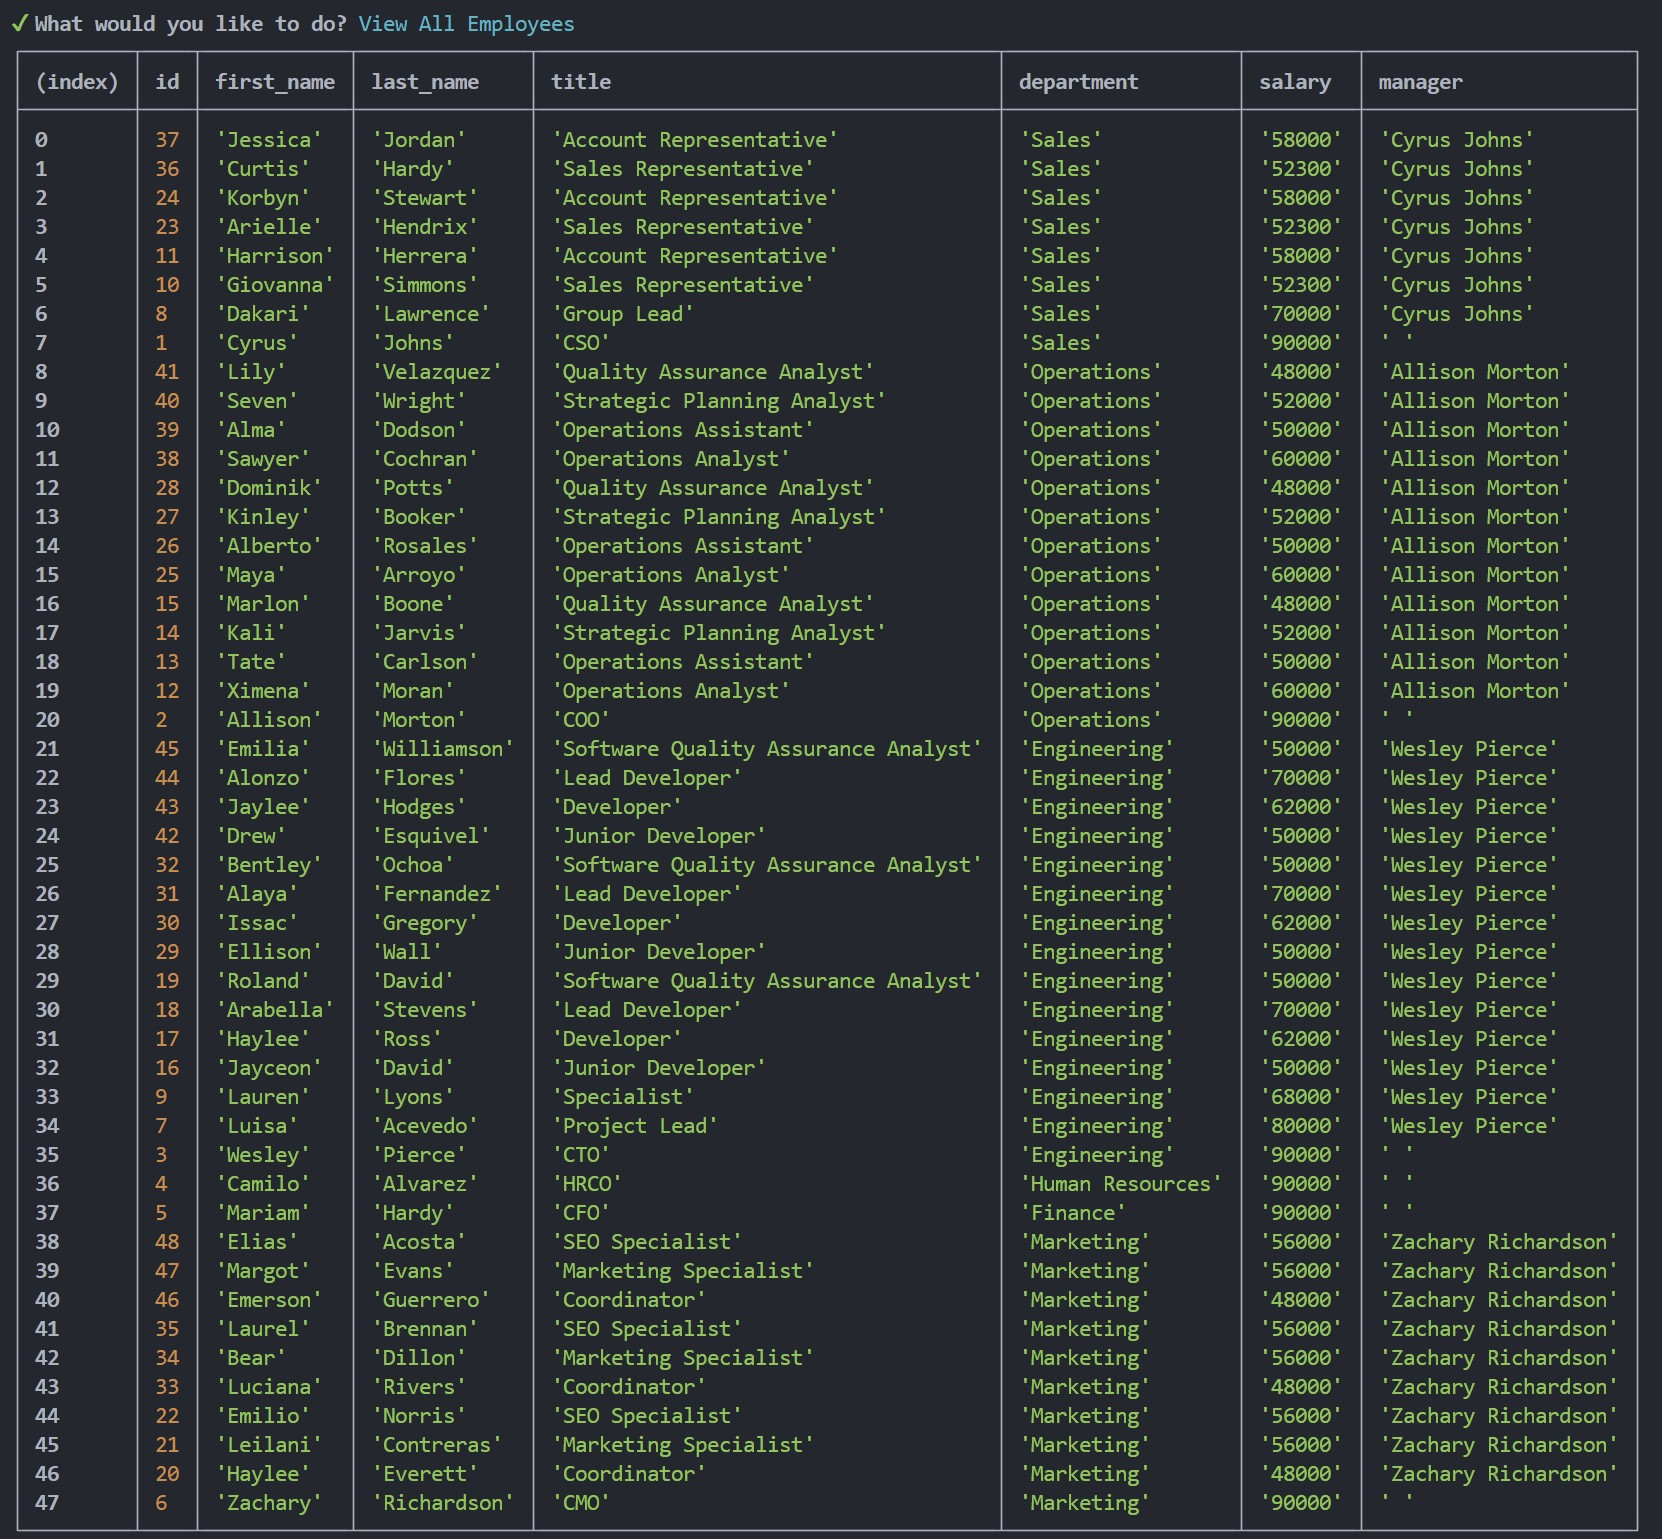
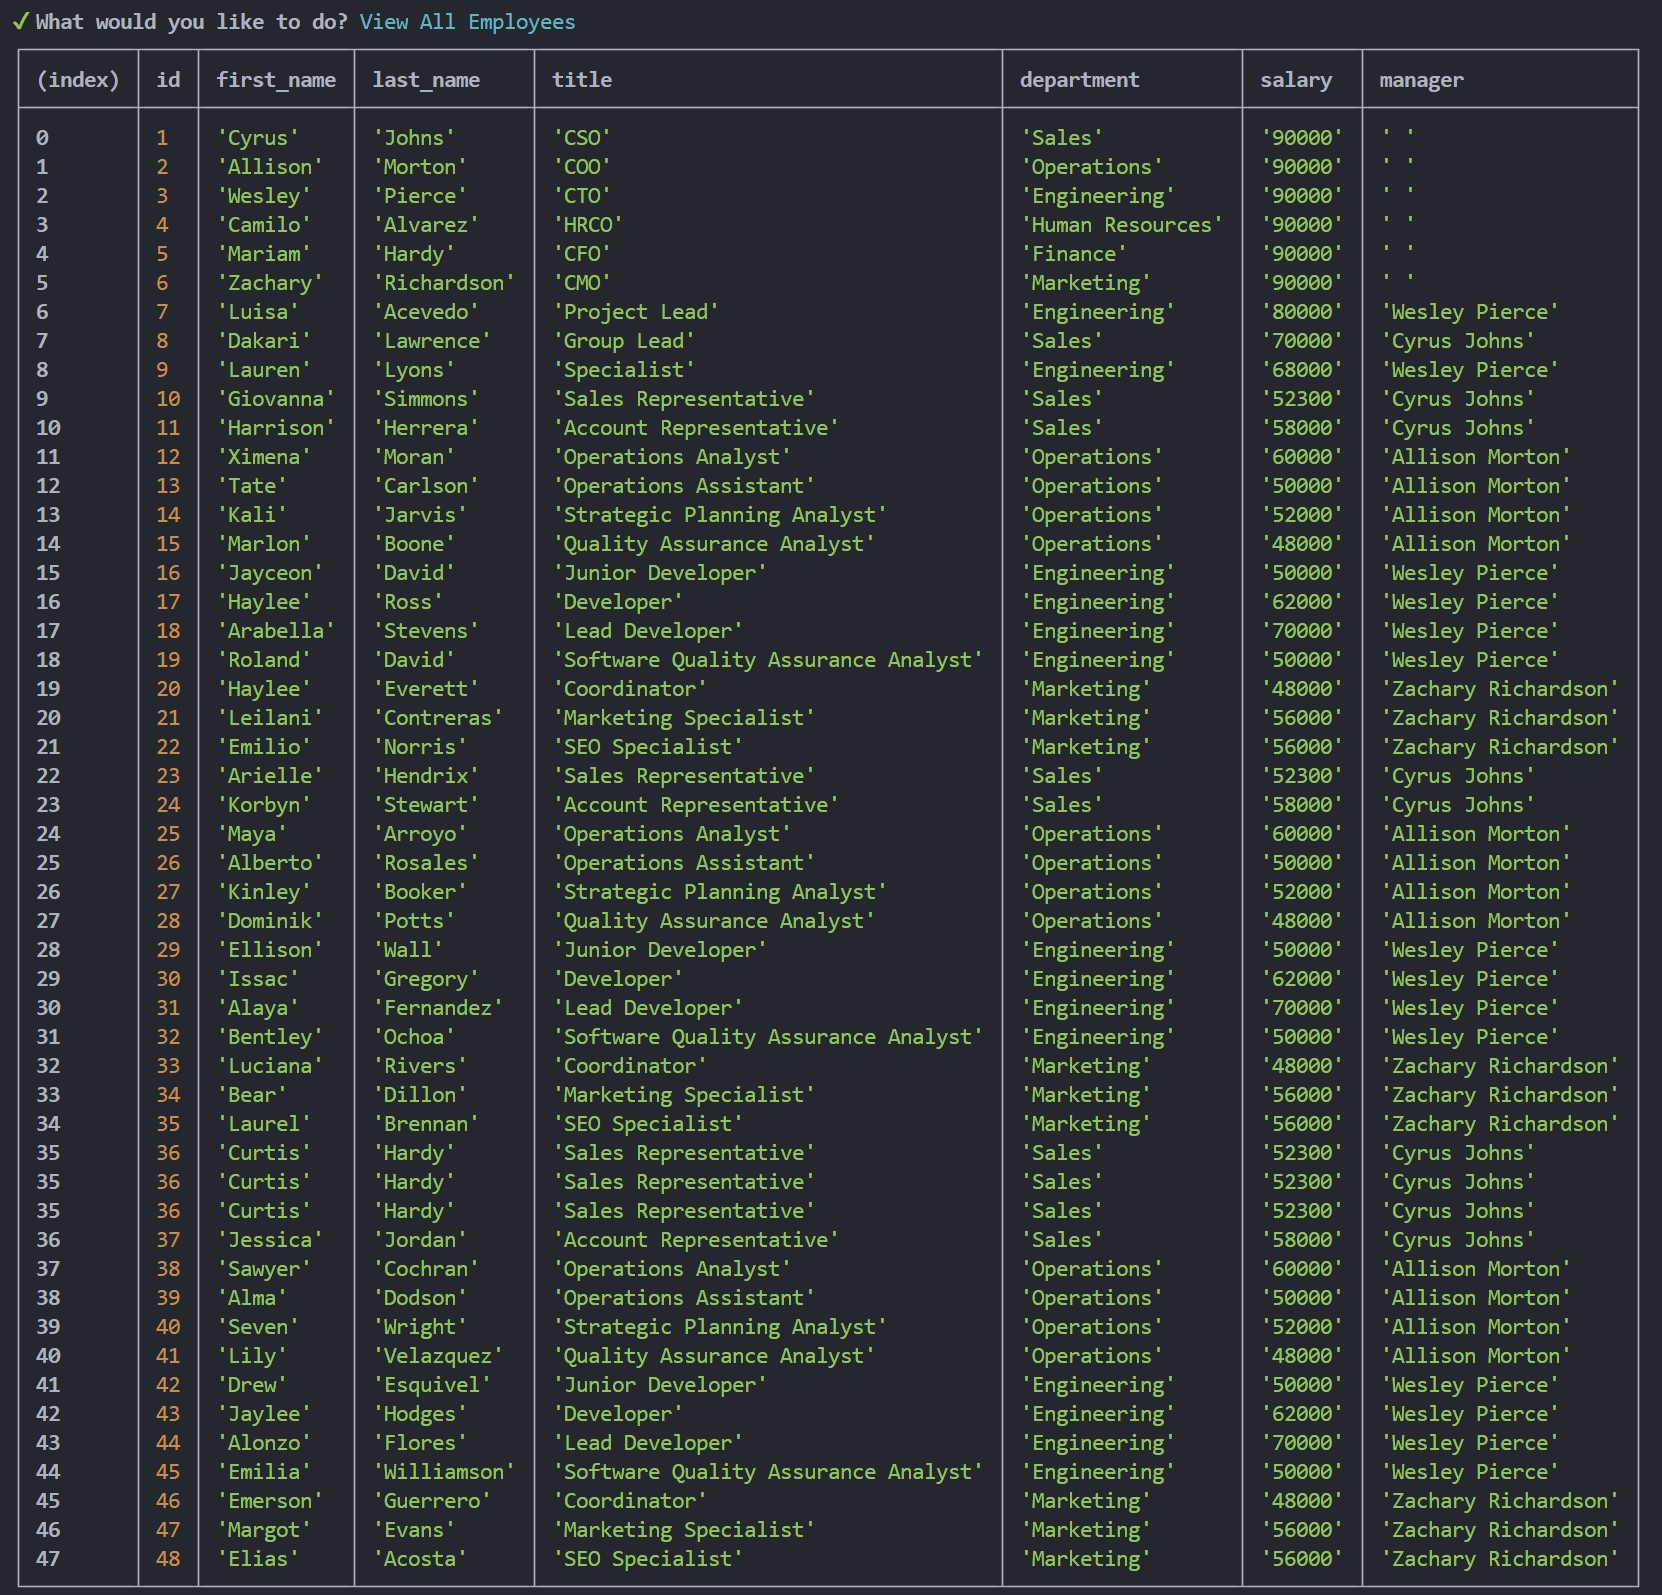
Updated index.ts - viewAllEmployees query to sort results by employee.id ASC, updated assets folder screenshot of viewAllEmployees to show ordering. Added dist folder with compiled JS code.

Changed region(s): [[0.0, 0.0, 1.0, 0.9981], [0.5523, 0.5614, 0.583, 0.5926]]

diff --git a/dist/index.js b/dist/index.js
@@ -1,0 +1,155 @@
+"use strict";
+var __importDefault = (this && this.__importDefault) || function (mod) {
+    return (mod && mod.__esModule) ? mod : { "default": mod };
+};
+Object.defineProperty(exports, "__esModule", { value: true });
+const inquirer_1 = __importDefault(require("inquirer"));
+const connection_1 = require("./connection");
+// Main menu function to display options to the user
+const mainMenu = () => {
+    const questions = [
+        {
+            type: 'list',
+            name: 'action',
+            message: 'What would you like to do?',
+            choices: [
+                'View All Departments',
+                'View All Roles',
+                'View All Employees',
+                'Add Department',
+                'Add Role',
+                'Add Employee',
+                'Update Employee Role',
+                'Exit'
+            ]
+        }
+    ];
+    // Prompt the user with the main menu options
+    inquirer_1.default.prompt(questions).then(answer => {
+        switch (answer.action) {
+            case 'View All Departments':
+                viewAllDepartments();
+                break;
+            case 'View All Roles':
+                viewAllRoles();
+                break;
+            case 'View All Employees':
+                viewAllEmployees();
+                break;
+            case 'Add Department':
+                addDepartment();
+                break;
+            case 'Add Role':
+                addRole();
+                break;
+            case 'Add Employee':
+                addEmployee();
+                break;
+            case 'Update Employee Role':
+                updateEmployeeRole();
+                break;
+            case 'Exit':
+                connection_1.pool.end();
+                process.exit();
+        }
+    });
+};
+// Function to view all departments
+const viewAllDepartments = () => {
+    connection_1.pool.query('SELECT id, "name" FROM department', (err, res) => {
+        if (err)
+            throw err;
+        console.table(res.rows);
+        mainMenu();
+    });
+};
+// Function to view all roles
+const viewAllRoles = () => {
+    connection_1.pool.query('SELECT role.id, role.title, role.salary, department.name AS department FROM role JOIN department ON role.department_id = department.id', (err, res) => {
+        if (err)
+            throw err;
+        console.table(res.rows);
+        mainMenu();
+    });
+};
+// Function to view all employees
+const viewAllEmployees = () => {
+    connection_1.pool.query(`
+    SELECT employee.id, employee.first_name, employee.last_name, role.title, department.name AS department, role.salary, 
+    CONCAT(manager.first_name, ' ', manager.last_name) AS manager 
+    FROM employee 
+    JOIN role ON employee.role_id = role.id 
+    JOIN department ON role.department_id = department.id 
+    LEFT JOIN employee AS manager ON employee.manager_id = manager.id
+    ORDER BY employee.id ASC
+  `, (err, res) => {
+        if (err)
+            throw err;
+        console.table(res.rows);
+        mainMenu();
+    });
+};
+// Function to add a new department
+const addDepartment = () => {
+    const questions = [
+        { type: 'input', name: 'name', message: 'Department Name:' }
+    ];
+    inquirer_1.default.prompt(questions).then(answer => {
+        connection_1.pool.query('INSERT INTO department (name) VALUES ($1)', [answer.name], (err, res) => {
+            if (err)
+                throw err;
+            console.log('Department added successfully');
+            mainMenu();
+        });
+    });
+};
+// Function to add a new role
+const addRole = () => {
+    const questions = [
+        { type: 'input', name: 'title', message: 'Role Title:' },
+        { type: 'input', name: 'salary', message: 'Role Salary:' },
+        { type: 'input', name: 'department_id', message: 'Department ID:' }
+    ];
+    inquirer_1.default.prompt(questions).then(answers => {
+        connection_1.pool.query('INSERT INTO role (title, salary, department_id) VALUES ($1, $2, $3)', [answers.title, answers.salary, answers.department_id], (err, res) => {
+            if (err)
+                throw err;
+            console.log('Role added successfully');
+            mainMenu();
+        });
+    });
+};
+// Function to add a new employee
+const addEmployee = () => {
+    const questions = [
+        { type: 'input', name: 'first_name', message: 'First Name:' },
+        { type: 'input', name: 'last_name', message: 'Last Name:' },
+        { type: 'input', name: 'role_id', message: 'Role ID:' },
+        { type: 'input', name: 'manager_id', message: 'Manager ID:' }
+    ];
+    inquirer_1.default.prompt(questions).then(answers => {
+        connection_1.pool.query('INSERT INTO employee (first_name, last_name, role_id, manager_id) VALUES ($1, $2, $3, $4)', [answers.first_name, answers.last_name, answers.role_id, answers.manager_id], (err, res) => {
+            if (err)
+                throw err;
+            console.log('Employee added successfully');
+            mainMenu();
+        });
+    });
+};
+// Function to update an employee's role
+const updateEmployeeRole = () => {
+    const questions = [
+        { type: 'input', name: 'employee_id', message: 'Employee ID:' },
+        { type: 'input', name: 'role_id', message: 'New Role ID:' }
+    ];
+    inquirer_1.default.prompt(questions).then(answers => {
+        connection_1.pool.query('UPDATE employee SET role_id = $1 WHERE id = $2', [answers.role_id, answers.employee_id], (err, res) => {
+            if (err)
+                throw err;
+            console.log('Employee role updated successfully');
+            mainMenu();
+        });
+    });
+};
+// Start the application by displaying the main menu
+mainMenu();

diff --git a/dist/connection.js b/dist/connection.js
@@ -1,0 +1,37 @@
+"use strict";
+var __awaiter = (this && this.__awaiter) || function (thisArg, _arguments, P, generator) {
+    function adopt(value) { return value instanceof P ? value : new P(function (resolve) { resolve(value); }); }
+    return new (P || (P = Promise))(function (resolve, reject) {
+        function fulfilled(value) { try { step(generator.next(value)); } catch (e) { reject(e); } }
+        function rejected(value) { try { step(generator["throw"](value)); } catch (e) { reject(e); } }
+        function step(result) { result.done ? resolve(result.value) : adopt(result.value).then(fulfilled, rejected); }
+        step((generator = generator.apply(thisArg, _arguments || [])).next());
+    });
+};
+var __importDefault = (this && this.__importDefault) || function (mod) {
+    return (mod && mod.__esModule) ? mod : { "default": mod };
+};
+Object.defineProperty(exports, "__esModule", { value: true });
+exports.connectToDb = exports.pool = void 0;
+const pg_1 = require("pg");
+const dotenv_1 = __importDefault(require("dotenv"));
+dotenv_1.default.config();
+const pool = new pg_1.Pool({
+    user: process.env.DB_USER,
+    password: process.env.DB_PASSWORD,
+    host: process.env.DB_HOST,
+    database: process.env.DB_NAME,
+    port: Number(process.env.DB_PORT),
+});
+exports.pool = pool;
+const connectToDb = () => __awaiter(void 0, void 0, void 0, function* () {
+    try {
+        yield pool.connect();
+        console.log('Connected to the database.');
+    }
+    catch (err) {
+        console.error('Error connecting to database:', err);
+        process.exit(1);
+    }
+});
+exports.connectToDb = connectToDb;

diff --git a/src/index.ts b/src/index.ts
@@ -79,6 +79,7 @@ const viewAllEmployees = () => {
     JOIN role ON employee.role_id = role.id 
     JOIN department ON role.department_id = department.id 
     LEFT JOIN employee AS manager ON employee.manager_id = manager.id
+    ORDER BY employee.id ASC
   `, (err: Error, res: any) => {
     if (err) throw err;
     console.table(res.rows);
